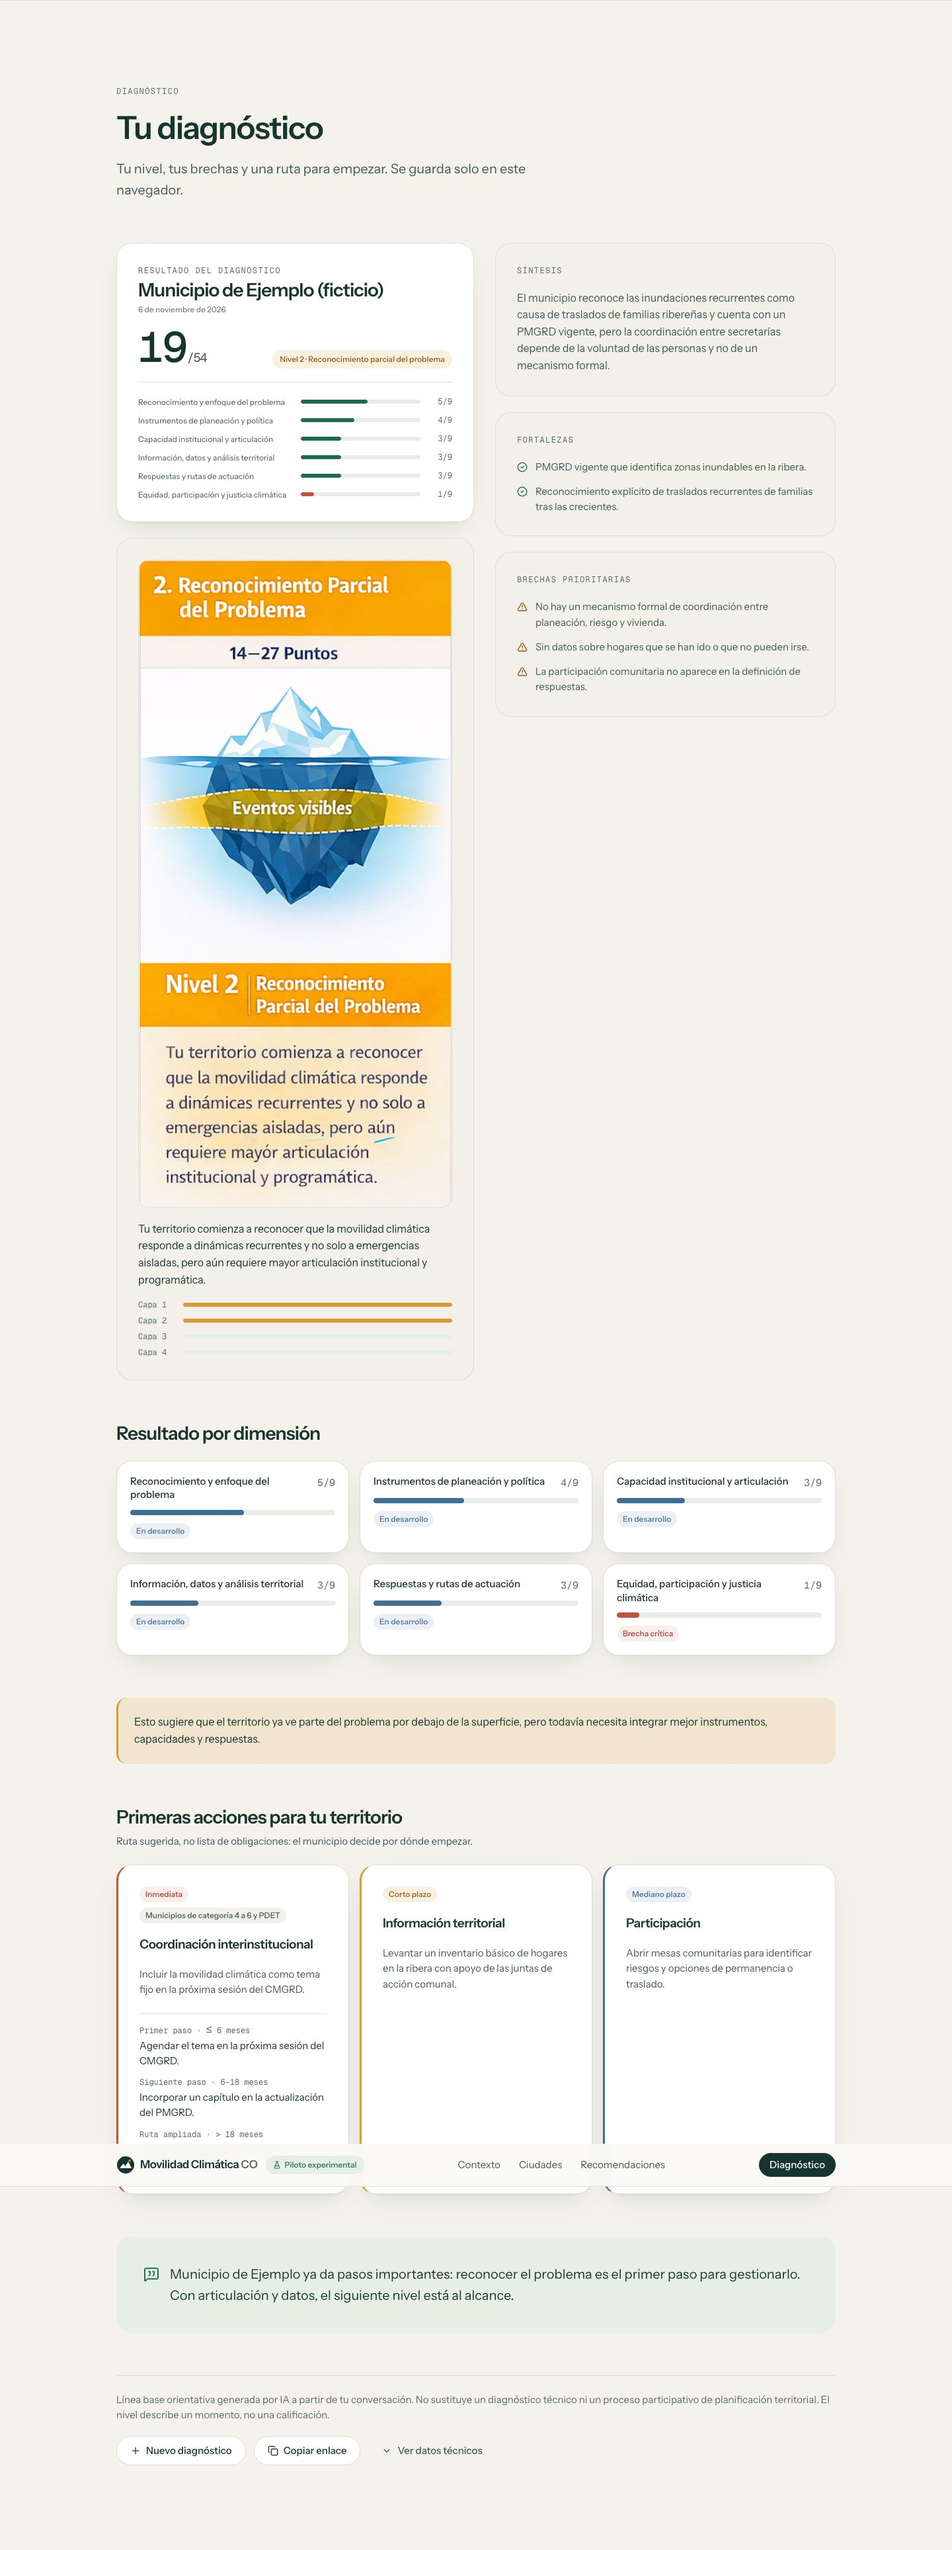
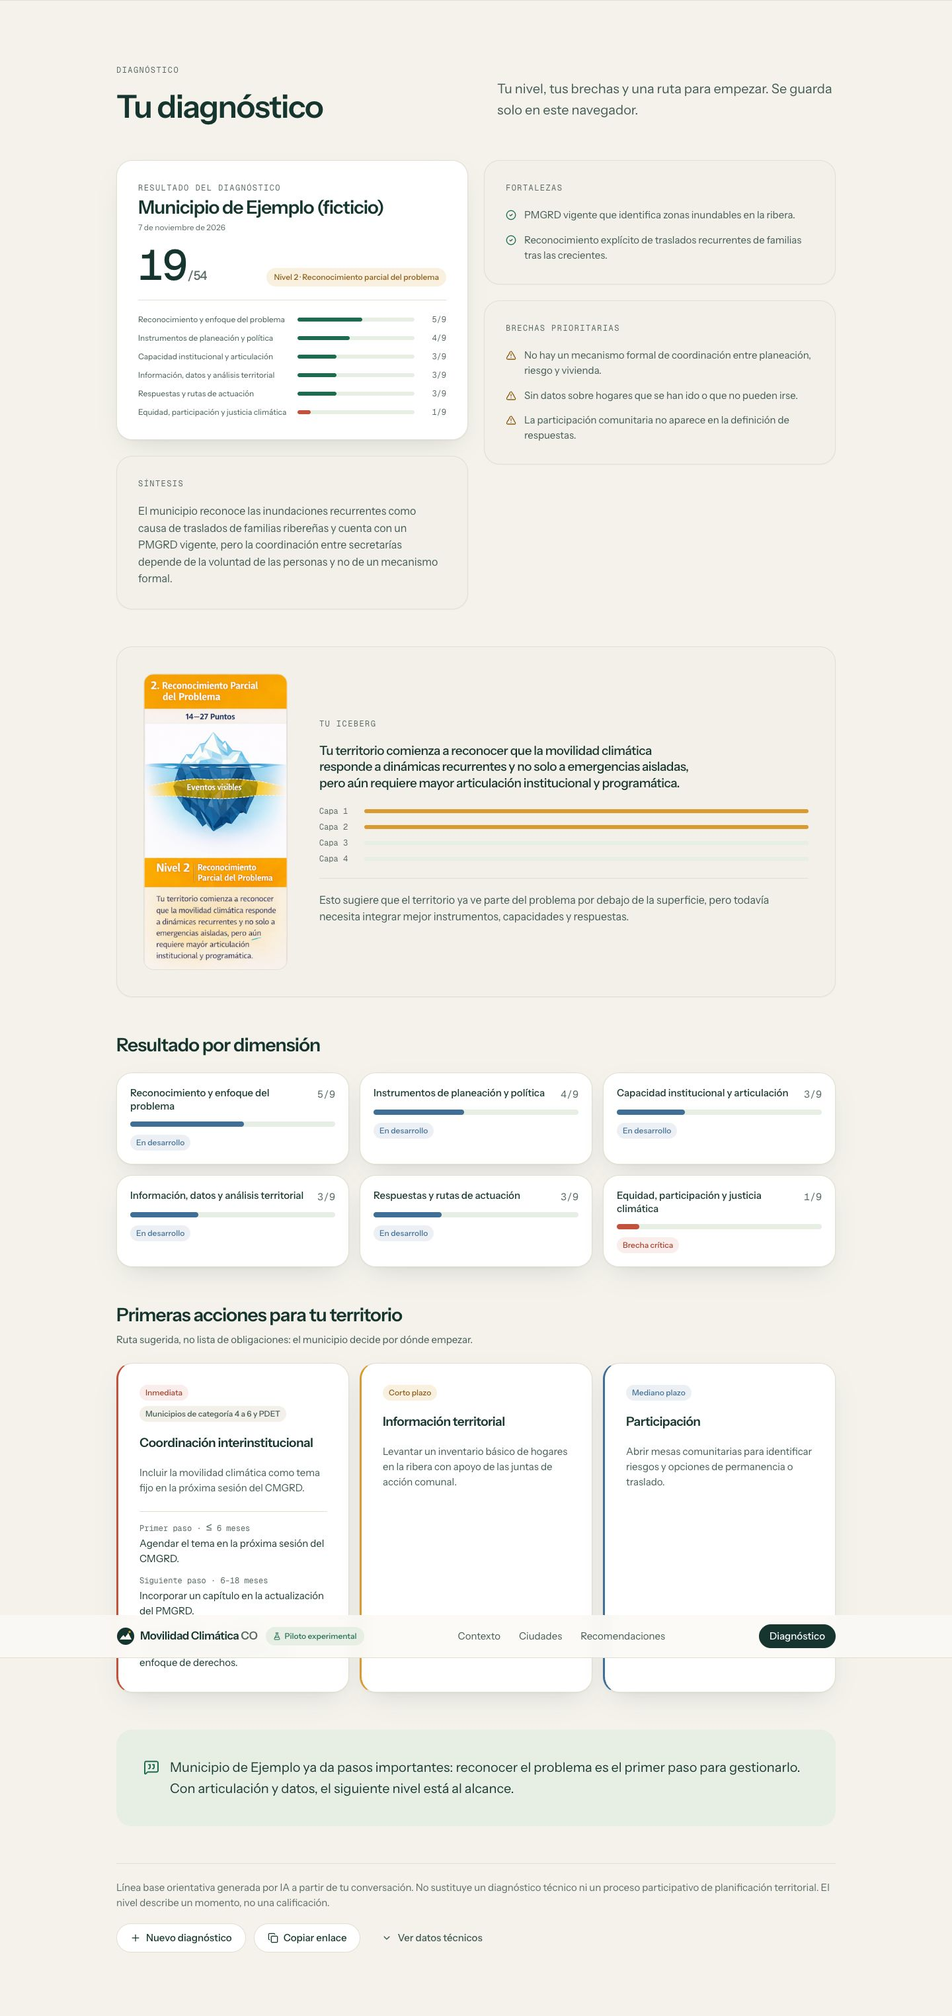
fix(ds): campo de municipio en el hero y distribución sin huecos
- Hero: vuelve el campo "¿En qué municipio trabajas?"; al enviarlo, el chat
  de la landing lo toma como primer mensaje (iniciarDiagnostico), también
  tras un resultado previo o el código de acceso, sin interrumpir una
  conversación en curso.
- Ritmo vertical más compacto (--space-section 64–96 px, --space-block 40–56 px).
- SectionHeader en dos columnas en escritorio (título | lead).
- Contexto: la definición ocupa la celda libre de la cuadrícula.
- Ciudades: ficha por filas (campo | afirmaciones en 2 columnas).
- Resultado: nivel + síntesis | fortalezas + brechas; iceberg horizontal con
  los textos oficiales corto y ampliado juntos.
- Pasos: ilustración centrada.
- Estándar 1.1 (regla 13 sobre huecos) y capturas actualizadas.

diff --git a/src/components/resultado/ResultadoDiagnostico.tsx b/src/components/resultado/ResultadoDiagnostico.tsx
@@ -1,6 +1,6 @@
 import { AlertTriangle, CheckCircle2, MessageSquareQuote } from 'lucide-react';
 import type { ReactNode } from 'react';
-import { Banner, Callout, Card, Heading, IconList, Reveal, Text } from '@/components/ds';
+import { Banner, Card, Heading, IconList, Reveal, Text } from '@/components/ds';
 import { BANNER_EJEMPLO } from '@/lib/contenido/ejemplo-resultado';
 import { getTexto } from '@/lib/contenido/textos';
 import type { AnalisisResult, DiagnosticoResult } from '@/lib/types';
@@ -9,7 +9,6 @@ import EvidenciaPorPregunta from './EvidenciaPorPregunta';
 import IcebergVisualization from './IcebergVisualization';
 import RecomendacionCard from './RecomendacionCard';
 import TarjetaNivel from './TarjetaNivel';
-import { TONO_NIVEL } from './tonos';
 
 interface Props {
   resultado: DiagnosticoResult;
@@ -31,28 +30,19 @@ const ALCANCE = getTexto('alcance').cuerpo.replace('[Ver evidencia por pregunta]
  * (con datos ficticios) y el resultado real del agente. No dupliques esta vista en otro lugar.
  */
 export default function ResultadoDiagnostico({ resultado, scores, ejemplo, fecha, acciones, idBase = 'resultado' }: Props) {
-  const tono = TONO_NIVEL[resultado.nivel_id];
   return (
     <article aria-label={`Resultado del diagnóstico de ${resultado.municipio}`} className="flex flex-col gap-block">
       {ejemplo && <Banner variant="ejemplo">{BANNER_EJEMPLO}</Banner>}
 
-      <div className="grid items-start gap-8 lg:grid-cols-[1.05fr_1fr]">
+      <div className="grid items-start gap-6 lg:grid-cols-2">
         <Reveal className="flex flex-col gap-6">
           <TarjetaNivel resultado={resultado} fecha={fecha} ejemplo={ejemplo} aviso={false} />
-          <Card variant="flat">
-            <IcebergVisualization
-              iceberg_id={resultado.iceberg_id}
-              nivel_nombre={resultado.nivel_nombre}
-              iceberg_texto_corto={resultado.iceberg_texto_corto}
-              capas_activas={resultado.capas_activas}
-            />
-          </Card>
-        </Reveal>
-        <Reveal delay={0.08} className="flex flex-col gap-6">
           <Card variant="flat">
             <Text variant="eyebrow">Síntesis</Text>
             <Text variant="body">{resultado.resumen_territorio}</Text>
           </Card>
+        </Reveal>
+        <Reveal delay={0.08} className="flex flex-col gap-6">
           <Card variant="flat">
             <Text variant="eyebrow">Fortalezas</Text>
             <IconList items={resultado.fortalezas} icon={CheckCircle2} tone="green" />
@@ -64,6 +54,18 @@ export default function ResultadoDiagnostico({ resultado, scores, ejemplo, fecha
         </Reveal>
       </div>
 
+      <Reveal>
+        <Card variant="flat" padding="lg">
+          <IcebergVisualization
+            iceberg_id={resultado.iceberg_id}
+            nivel_nombre={resultado.nivel_nombre}
+            iceberg_texto_corto={resultado.iceberg_texto_corto}
+            iceberg_texto_ampliado={resultado.iceberg_texto_ampliado}
+            capas_activas={resultado.capas_activas}
+          />
+        </Card>
+      </Reveal>
+
       <Reveal className="flex flex-col gap-6">
         <Heading as="h3" size="h3">Resultado por dimensión</Heading>
         <div className="grid gap-4 sm:grid-cols-2 lg:grid-cols-3">
@@ -73,10 +75,6 @@ export default function ResultadoDiagnostico({ resultado, scores, ejemplo, fecha
             </Card>
           ))}
         </div>
-      </Reveal>
-
-      <Reveal>
-        <Callout tone={tono} icon={false}>{resultado.iceberg_texto_ampliado}</Callout>
       </Reveal>
 
       <Reveal className="flex flex-col gap-6">

diff --git a/src/components/sections/HeroSection.tsx b/src/components/sections/HeroSection.tsx
@@ -1,8 +1,10 @@
 'use client';
 
+import { useState } from 'react';
 import Link from 'next/link';
 import { ArrowRight } from 'lucide-react';
-import { Button, Container, FondoMontanas, Reveal, Text, TituloIA, type TramoTitulo } from '@/components/ds';
+import { Button, Container, FondoMontanas, Reveal, Text, TextInput, TituloIA, type TramoTitulo } from '@/components/ds';
+import { iniciarDiagnostico } from '@/components/diagnostico/eventos';
 import ChatVistaPrevia from '@/components/diagnostico/ChatVistaPrevia';
 import TarjetaNivel from '@/components/resultado/TarjetaNivel';
 import { EJEMPLO_DIAGNOSTICO } from '@/lib/contenido/ejemplo-resultado';
@@ -15,6 +17,13 @@ const TRAMOS: TramoTitulo[] = [
 const CIUDADES = ['Bogotá', 'Medellín', 'Barranquilla'];
 
 export default function HeroSection() {
+  const [municipio, setMunicipio] = useState('');
+
+  function handleStart(e: React.FormEvent) {
+    e.preventDefault();
+    iniciarDiagnostico(municipio);
+  }
+
   return (
     <>
       <section className="relative flex min-h-svh flex-col overflow-hidden pt-16">
@@ -31,16 +40,26 @@ export default function HeroSection() {
               Una conversación guiada por IA construye una línea base de la preparación institucional de tu municipio frente a la movilidad climática.
             </Text>
           </Reveal>
-          <Reveal delay={0.2} className="flex w-full flex-col gap-3 sm:w-auto sm:flex-row">
-            <Button asChild size="lg">
-              <Link href="#diagnostico">Iniciar Diagnóstico <ArrowRight aria-hidden="true" /></Link>
-            </Button>
-            <Button asChild size="lg" variant="secondary">
-              <Link href="#ejemplo">Ver ejemplo de resultado</Link>
-            </Button>
+          <Reveal delay={0.2} className="w-full max-w-xl">
+            <form onSubmit={handleStart} className="flex flex-col gap-3 sm:flex-row sm:items-end">
+              <TextInput
+                label="¿En qué municipio trabajas?"
+                hideLabel
+                size="lg"
+                value={municipio}
+                onChange={(e) => setMunicipio(e.target.value)}
+                placeholder="¿En qué municipio trabajas?"
+                autoComplete="address-level2"
+                maxLength={120}
+              />
+              <Button type="submit" size="lg" className="h-13 shrink-0">
+                Iniciar Diagnóstico <ArrowRight aria-hidden="true" />
+              </Button>
+            </form>
           </Reveal>
           <Text variant="small" tone="muted">
-            O explora los casos de{' '}
+            <Link href="#ejemplo" className="font-medium text-green-ink underline-offset-2 hover:underline">Ver ejemplo de resultado</Link>
+            {' · '}O explora los casos de{' '}
             {CIUDADES.map((c, i) => (
               <span key={c}>
                 {i > 0 && ' · '}

diff --git a/src/components/resultado/IcebergVisualization.tsx b/src/components/resultado/IcebergVisualization.tsx
@@ -5,6 +5,8 @@ interface Props {
   iceberg_id: IcebergId;
   nivel_nombre: string;
   iceberg_texto_corto: string;
+  /** Texto ampliado oficial (opcional): acompaña al corto bajo las capas. */
+  iceberg_texto_ampliado?: string;
   capas_activas: string[];
 }
 
@@ -19,17 +21,18 @@ const RELLENO: Record<IcebergId, string> = {
 };
 
 /** Iceberg oficial (imagen por nivel) + texto corto exacto + capas activas. */
-export default function IcebergVisualization({ iceberg_id, nivel_nombre, iceberg_texto_corto, capas_activas }: Props) {
+export default function IcebergVisualization({ iceberg_id, nivel_nombre, iceberg_texto_corto, iceberg_texto_ampliado, capas_activas }: Props) {
   return (
-    <figure className="flex flex-col gap-5">
+    <figure className="grid items-center gap-8 md:grid-cols-[auto_minmax(0,1fr)] md:gap-12">
       {/* eslint-disable-next-line @next/next/no-img-element */}
       <img
         src={`/icebergs/${iceberg_id}.png`}
         alt={`Iceberg del nivel ${nivel_nombre}: ${capas_activas.length} de 4 capas visibles`}
-        className="w-full rounded-xl border border-border object-contain"
+        className="mx-auto max-h-[28rem] w-auto max-w-full rounded-xl border border-border object-contain"
       />
-      <figcaption className="flex flex-col gap-4">
-        <Text variant="body" tone="default">{iceberg_texto_corto}</Text>
+      <figcaption className="flex flex-col gap-5">
+        <Text variant="eyebrow">Tu iceberg</Text>
+        <p className="font-heading text-h4 font-medium tracking-tight text-foreground text-balance">{iceberg_texto_corto}</p>
         <ol aria-label="Capas del iceberg" className="flex flex-col gap-1.5">
           {CAPAS.map((n) => {
             const activa = n <= capas_activas.length;
@@ -42,6 +45,9 @@ export default function IcebergVisualization({ iceberg_id, nivel_nombre, iceberg
             );
           })}
         </ol>
+        {iceberg_texto_ampliado && (
+          <Text variant="body" className="border-t border-border pt-5">{iceberg_texto_ampliado}</Text>
+        )}
       </figcaption>
     </figure>
   );

diff --git a/src/components/sections/ContextSection.tsx b/src/components/sections/ContextSection.tsx
@@ -60,12 +60,15 @@ export default function ContextSection() {
       />
 
       <div className="flex flex-col gap-6">
-        <Reveal>
-          <Callout variant="nota" title="¿Qué es la movilidad climática?">{DEFINICION_MOVILIDAD_CLIMATICA}</Callout>
-        </Reveal>
         <ul className="grid grid-cols-1 gap-4 sm:grid-cols-2 lg:grid-cols-3">
+          <Reveal as="li">
+            <Card variant="sage" className="h-full justify-center">
+              <Text variant="eyebrow">¿Qué es la movilidad climática?</Text>
+              <p className="text-body font-medium text-foreground">{DEFINICION_MOVILIDAD_CLIMATICA}</p>
+            </Card>
+          </Reveal>
           {FORMAS.map((f, i) => (
-            <Reveal as="li" key={f.titulo} index={i}>
+            <Reveal as="li" key={f.titulo} index={i + 1}>
               <Card variant="raised" className="h-full">
                 <IconTile icon={f.icon} />
                 <Heading as="h3" size="h4">{f.titulo}</Heading>
@@ -83,13 +86,12 @@ export default function ContextSection() {
       </Reveal>
 
       <div className="flex flex-col gap-10">
-        <Reveal className="flex max-w-2xl flex-col gap-5">
-          <Text variant="eyebrow">La evidencia</Text>
-          <Heading as="h3" size="h2">Colombia enfrenta una crisis silenciosa</Heading>
-          <Text variant="lead">
-            Los datos oficiales muestran el tamaño del fenómeno — aunque todavía subestiman su verdadera dimensión.
-          </Text>
-        </Reveal>
+        <SectionHeader
+          as="h3"
+          eyebrow="La evidencia"
+          title="Colombia enfrenta una crisis silenciosa"
+          lead="Los datos oficiales muestran el tamaño del fenómeno — aunque todavía subestiman su verdadera dimensión."
+        />
         <div className="grid border-t border-border md:grid-cols-3">
           {CIFRAS.map((c, i) => (
             <Reveal key={c.id} index={i} className={i > 0 ? 'border-t border-border md:border-t-0 md:border-l md:pl-8' : 'md:pr-8'}>

diff --git a/src/components/sections/DiagnosticoSection.tsx b/src/components/sections/DiagnosticoSection.tsx
@@ -6,6 +6,7 @@ import ChatInterface from '@/components/chat/ChatInterface';
 import DiagnosticoLoader from '@/components/chat/DiagnosticoLoader';
 import AccesoPiloto from '@/components/diagnostico/AccesoPiloto';
 import ProgresoDiagnostico, { type FaseDiagnostico } from '@/components/diagnostico/ProgresoDiagnostico';
+import { CLAVE_MUNICIPIO_INICIAL, EVENTO_INICIAR } from '@/components/diagnostico/eventos';
 import ResultadoDiagnostico from '@/components/resultado/ResultadoDiagnostico';
 import { Button, Card, EmptyState, Reveal, Section, SectionHeader } from '@/components/ds';
 import type { AnalisisResult, DiagnosticoAPIResponse, DiagnosticoResult } from '@/lib/types';
@@ -110,6 +111,22 @@ export default function DiagnosticoSection({ requiereCodigo }: Props) {
     setFase(requiereCodigo ? 'acceso' : 'chat');
     irAlInicio();
   }
+
+  // Inicio desde el campo del hero: el chat toma el municipio como primer mensaje al montarse.
+  useEffect(() => {
+    function alIniciar() {
+      if (fase === 'resultado' || fase === 'error') {
+        nuevoDiagnostico();
+      } else if (fase === 'chat' && mensajes === 0) {
+        setChatKey((k) => k + 1); // remonta el chat para que envíe el municipio guardado
+      } else if (fase === 'chat' || fase === 'analizando') {
+        localStorage.removeItem(CLAVE_MUNICIPIO_INICIAL); // no interrumpir una conversación en curso
+      }
+      // fase 'acceso': el municipio queda guardado y se envía al entrar al chat
+    }
+    window.addEventListener(EVENTO_INICIAR, alIniciar);
+    return () => window.removeEventListener(EVENTO_INICIAR, alIniciar);
+  });
 
   async function copiar() {
     await navigator.clipboard.writeText(`${window.location.origin}/#diagnostico`);

diff --git a/src/components/ds/SectionHeader.tsx b/src/components/ds/SectionHeader.tsx
@@ -15,13 +15,28 @@ export interface SectionHeaderProps {
   className?: string;
 }
 
-/** Encabezado de sección: eyebrow + título + lead, ancho de lectura limitado, con fade-in. */
+/**
+ * Encabezado de sección con fade-in. `start` (por defecto): en escritorio, título a la izquierda y
+ * lead a la derecha, alineados abajo (usa todo el ancho, sin columna vacía). `center`: apilado y centrado.
+ */
 export function SectionHeader({ eyebrow, title, lead, as = 'h2', align = 'start', className }: SectionHeaderProps) {
+  const titulo = <Heading as={as} size={as === 'h1' ? 'h1' : as === 'h3' ? 'h3' : 'h2'}>{title}</Heading>;
+  if (align === 'center') {
+    return (
+      <Reveal className={cn('mx-auto flex max-w-2xl flex-col items-center gap-5 text-center', className)}>
+        {eyebrow && <Text variant="eyebrow">{eyebrow}</Text>}
+        {titulo}
+        {lead && <Text variant="lead">{lead}</Text>}
+      </Reveal>
+    );
+  }
   return (
-    <Reveal className={cn('flex max-w-2xl flex-col gap-5', align === 'center' && 'mx-auto items-center text-center', className)}>
-      {eyebrow && <Text variant="eyebrow">{eyebrow}</Text>}
-      <Heading as={as} size={as === 'h1' ? 'h1' : as === 'h3' ? 'h3' : 'h2'}>{title}</Heading>
-      {lead && <Text variant="lead">{lead}</Text>}
+    <Reveal className={cn('grid gap-5 lg:grid-cols-2 lg:items-end lg:gap-16', className)}>
+      <div className="flex max-w-2xl flex-col gap-5">
+        {eyebrow && <Text variant="eyebrow">{eyebrow}</Text>}
+        {titulo}
+      </div>
+      {lead && <Text variant="lead" className="max-w-xl lg:pb-1">{lead}</Text>}
     </Reveal>
   );
 }

diff --git a/src/components/sections/CitiesSection.tsx b/src/components/sections/CitiesSection.tsx
@@ -20,7 +20,7 @@ const publicables = (as: Afirmacion[]) => as.filter((a) => a.publicable !== fals
 
 function Afirmaciones({ items }: { items: Afirmacion[] }) {
   return (
-    <ul className="flex flex-col gap-3">
+    <ul className="grid gap-x-10 gap-y-4 md:grid-cols-2">
       {publicables(items).map((a) => {
         const f = fuenteDe(a);
         return (
@@ -61,18 +61,18 @@ export default function CitiesSection() {
                 </div>
                 <p className="font-heading text-h3 font-semibold tracking-heading text-foreground text-balance">{c.mensajeClave.texto}</p>
               </Card>
-              <div className="grid gap-4 md:grid-cols-2">
+              <Card variant="raised" padding="none" className="divide-y divide-border">
                 {CAMPOS.map(({ clave, titulo }) => {
                   const items = publicables(c[clave]);
                   if (items.length === 0) return null;
                   return (
-                    <Card key={clave} variant="raised" className={clave === 'contexto' ? 'md:col-span-2' : undefined}>
+                    <div key={clave} className="grid gap-4 p-card lg:grid-cols-[12rem_minmax(0,1fr)] lg:gap-10">
                       <Heading as="h3" size="h4">{titulo}</Heading>
                       <Afirmaciones items={items} />
-                    </Card>
+                    </div>
                   );
                 })}
-              </div>
+              </Card>
             </TabsContent>
           ))}
         </Tabs>

diff --git a/src/components/chat/ChatInterface.tsx b/src/components/chat/ChatInterface.tsx
@@ -6,6 +6,7 @@ import { DefaultChatTransport, type UIMessage } from 'ai';
 import { ArrowUp, CheckCircle2, Sparkles } from 'lucide-react';
 import { Button, Chip, IconList, Text } from '@/components/ds';
 import { cn } from '@/lib/utils';
+import { CLAVE_MUNICIPIO_INICIAL } from '@/components/diagnostico/eventos';
 
 type Estado = 'activo' | 'completado';
 
@@ -60,10 +61,10 @@ export default function ChatInterface({ onUserMessageCount, onCompletado, onRequ
   // Al montar: enviar municipio-inicial si existe. El timeout cancelable evita el envío
   // doble (o perdido) cuando React monta, desmonta y vuelve a montar en modo estricto.
   useEffect(() => {
-    const municipioInicial = localStorage.getItem('municipio-inicial');
+    const municipioInicial = localStorage.getItem(CLAVE_MUNICIPIO_INICIAL);
     if (!municipioInicial) return;
     const t = setTimeout(() => {
-      localStorage.removeItem('municipio-inicial');
+      localStorage.removeItem(CLAVE_MUNICIPIO_INICIAL);
       sendMessage({ text: municipioInicial });
     }, 0);
     return () => clearTimeout(t);

diff --git a/src/app/ds/estructura/page.tsx b/src/app/ds/estructura/page.tsx
@@ -35,7 +35,7 @@ export default function Estructura() {
       </Specimen>
 
       <Specimen nombre="SectionHeader" archivo="src/components/ds/SectionHeader.tsx"
-        descripcion="Eyebrow monoespaciado + título + lead, con fade-in. align start o center."
+        descripcion="Eyebrow monoespaciado + título + lead, con fade-in. align=&quot;start&quot; (por defecto) pone en escritorio el título a la izquierda y el lead a la derecha, sin columna vacía; align=&quot;center&quot; apila y centra."
         codigo={`<SectionHeader eyebrow="Casos de estudio" title="Tres ciudades. Tres realidades." lead="…" />`}
         usar={['Encabezado de cada Section']} noUsar={['Títulos dentro de tarjetas (usa Heading size="h4")']}
         a11y="Por defecto renderiza h2; usa as=&quot;h1&quot; solo si es el título de la página.">

diff --git a/src/components/diagnostico/eventos.ts b/src/components/diagnostico/eventos.ts
@@ -1,0 +1,12 @@
+/** Evento para iniciar el diagnóstico desde otra parte de la landing (p. ej. el campo del hero). */
+export const EVENTO_INICIAR = 'diagnostico:iniciar';
+export const CLAVE_MUNICIPIO_INICIAL = 'municipio-inicial';
+
+/** Guarda el municipio como primer mensaje del chat, avisa a la sección del diagnóstico y baja hasta ella. */
+export function iniciarDiagnostico(municipio: string) {
+  const m = municipio.trim();
+  if (m) localStorage.setItem(CLAVE_MUNICIPIO_INICIAL, m);
+  window.dispatchEvent(new CustomEvent<string>(EVENTO_INICIAR, { detail: m }));
+  history.replaceState(null, '', '#diagnostico');
+  document.getElementById('diagnostico')?.scrollIntoView({ behavior: 'smooth', block: 'start' });
+}

diff --git a/src/app/globals.css b/src/app/globals.css
@@ -111,8 +111,8 @@
 :root {
   /* Espaciado nombrado (además de la escala 4px de Tailwind) */
   --space-gutter:  clamp(1.25rem, 4vw, 2rem);  /* padding lateral del Container */
-  --space-section: clamp(5rem, 9vw, 8rem);     /* padding vertical de Section */
-  --space-block:   clamp(3rem, 5vw, 4rem);     /* separación entre bloques de una sección */
+  --space-section: clamp(4rem, 7vw, 6rem);     /* padding vertical de Section */
+  --space-block:   clamp(2.5rem, 4vw, 3.5rem); /* separación entre bloques de una sección */
   --space-stack:   1.25rem;                    /* separación dentro de una tarjeta */
   --space-card:    clamp(1.5rem, 3vw, 2rem);   /* padding de Card */
 

diff --git a/src/components/ds/Pasos.tsx b/src/components/ds/Pasos.tsx
@@ -39,7 +39,7 @@ export function Pasos({ pasos, className }: PasosProps) {
                 <Heading as="h3" size="h3">{p.titulo}</Heading>
                 <Text variant="body">{p.descripcion}</Text>
               </div>
-              {p.visual && <div className="rounded-[calc(var(--radius-card)-0.5rem)] bg-surface p-4 sm:p-6">{p.visual}</div>}
+              {p.visual && <div className="flex justify-center rounded-[calc(var(--radius-card)-0.5rem)] bg-surface p-4 sm:p-6 [&>*]:w-full [&>*]:max-w-md">{p.visual}</div>}
             </div>
           </Reveal>
         );
